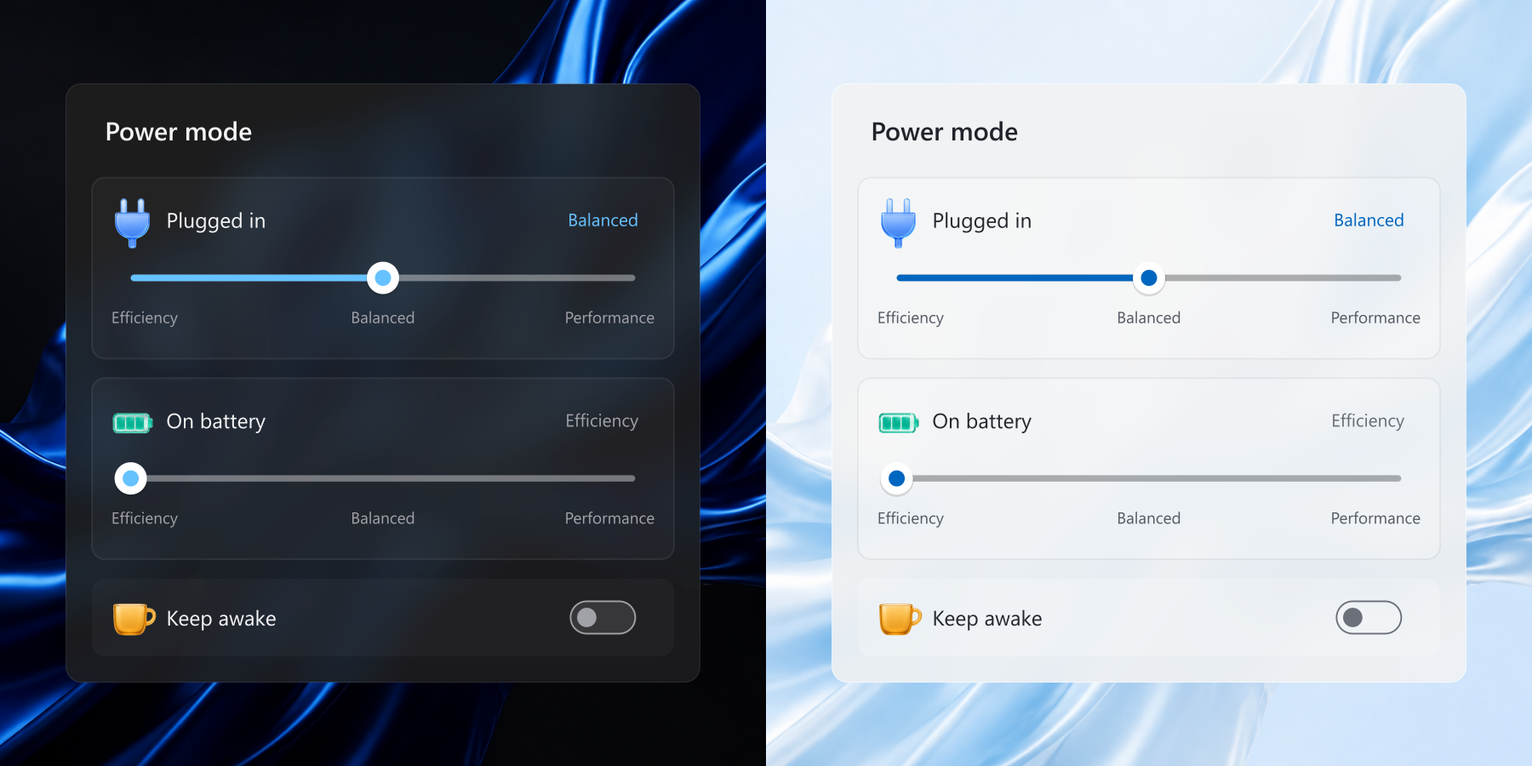
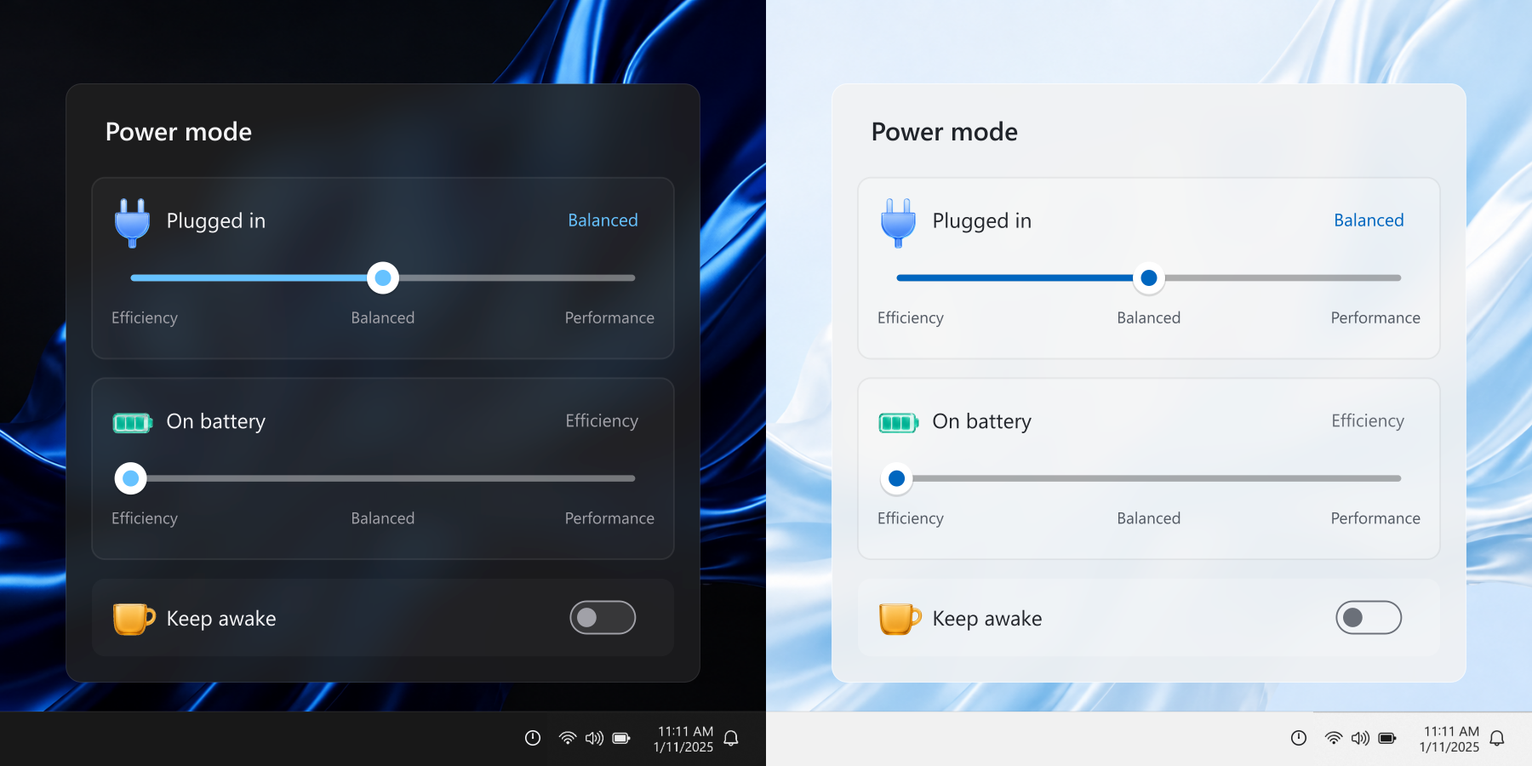
Release Windows 11 Power Slider v1.0.1

diff --git a/site/index.html b/site/index.html
@@ -3,12 +3,12 @@
   <head>
     <meta charset="utf-8" />
     <meta name="viewport" content="width=device-width, initial-scale=1" />
-    <meta name="description" content="Windows 11 Power Slider is a lightweight native C++ tray app for switching power modes with a modern Acrylic interface." />
+    <meta name="description" content="Windows 11 Power Slider puts the current power mode in the taskbar tray and opens a compact Acrylic switcher with one click." />
     <link rel="canonical" href="https://kiteretsu903.github.io/windows-11-power-slider/" />
     <link rel="icon" href="assets/icon.png" />
     <meta name="theme-color" content="#07101f" />
     <meta property="og:title" content="Windows 11 Power Slider" />
-    <meta property="og:description" content="Modern power mode controls without the WinUI 3 runtime." />
+    <meta property="og:description" content="Your current power mode, always visible in the taskbar tray." />
     <meta property="og:image" content="https://kiteretsu903.github.io/windows-11-power-slider/assets/preview.png" />
     <meta property="og:url" content="https://kiteretsu903.github.io/windows-11-power-slider/" />
     <meta property="og:type" content="website" />
@@ -30,6 +30,8 @@
       .brand img { width: 34px; height: 34px; border-radius: 10px; }
       nav { display: flex; gap: 28px; color: var(--muted); font-size: 14px; font-weight: 600; }
       nav a:hover, footer a:hover { color: var(--blue); }
+      .header-actions { display: flex; align-items: center; gap: 10px; }
+      .language { min-width: 54px; color: var(--muted); background: transparent; cursor: pointer; }
       .button { display: inline-flex; min-height: 44px; padding: 0 18px; align-items: center; justify-content: center; gap: 9px; border: 1px solid rgba(255,255,255,.27); border-radius: 999px; font-size: 14px; font-weight: 650; transition: transform .18s ease, background .18s ease, border-color .18s ease; }
       .button:hover { transform: translateY(-1px); border-color: rgba(255,255,255,.55); background: rgba(255,255,255,.08); }
       .button-blue { color: #041322; border-color: #83cbff; background: linear-gradient(135deg,#83cbff,#46aaf3); box-shadow: 0 10px 30px rgba(37,146,231,.23); }
@@ -57,33 +59,12 @@
       .feature-number { color: var(--blue); font-size: 13px; font-weight: 720; letter-spacing: .1em; }
       .feature-row h3 { margin: 0; font-size: 25px; line-height: 1.08; letter-spacing: -.04em; }
       .feature-row p { max-width: 410px; margin: 0; color: var(--muted); font-size: 15px; line-height: 1.55; }
-      .native { padding: 0 0 104px; }
-      .native-grid { display: grid; grid-template-columns: 1fr 1fr; gap: 20px; }
-      .native-copy,.facts { min-height: 470px; padding: 44px; border-radius: var(--radius); }
-      .native-copy { display: flex; flex-direction: column; justify-content: space-between; color: #07101f; background: linear-gradient(145deg,#dff2ff,#79c7ff); }
-      .native-copy .section-label { color: #075f9e; }
-      .native-copy h2 { font-size: clamp(43px,4.8vw,62px); }
-      .native-copy p:not(.section-label) { max-width: 410px; margin: 20px 0 0; color: #1b4d70; font-size: 17px; line-height: 1.55; }
-      .quiet { padding-top: 24px; border-top: 1px solid rgba(7,16,31,.23); color: #17476a; font-size: 13px; line-height: 1.45; }
-      .quiet strong { display: block; margin-bottom: 4px; color: #07101f; font-size: 12px; letter-spacing: .08em; }
-      .facts { background: rgba(255,255,255,.055); border: 1px solid var(--line); backdrop-filter: blur(18px); }
-      .facts ul { margin: 25px 0 0; padding: 0; list-style: none; }
-      .facts li { display: flex; justify-content: space-between; gap: 20px; padding: 20px 0; border-bottom: 1px solid var(--line); color: var(--muted); font-size: 15px; }
-      .facts li strong { color: var(--ink); font-weight: 650; }
-      .callout { padding: 40px 0 68px; }
-      .callout-inner { display: grid; grid-template-columns: 1fr auto; gap: 38px; align-items: center; padding: 55px 60px; border-radius: var(--radius); background: linear-gradient(125deg,#0878d1,#48b1fa); color: white; }
-      .callout-inner .section-label { color: #d9f0ff; }
-      .callout-inner h2 { margin-top: 11px; font-size: clamp(40px,5vw,61px); }
-      .callout-inner .button { margin-top: 25px; color: #07558e; border-color: white; background: white; }
-      .callout-inner img { width: 128px; height: 128px; border-radius: 28px; filter: drop-shadow(0 20px 25px rgba(2,45,83,.28)); }
       footer { display: flex; justify-content: space-between; gap: 24px; padding: 26px 0 39px; border-top: 1px solid var(--line); color: #8493a8; font-size: 13px; }
       @media (max-width: 780px) {
         nav { display: none; } .site-header { height: 72px; }
-        .hero { padding: 58px 0 76px; } .hero-grid,.section-head,.native-grid { grid-template-columns: 1fr; gap: 30px; } .hero-copy { padding-top: 0; }
+        .hero { padding: 58px 0 76px; } .hero-grid,.section-head { grid-template-columns: 1fr; gap: 30px; } .hero-copy { padding-top: 0; }
         .product-frame { margin-top: 43px; border-radius: 20px; }
-        .features { padding: 78px 0; } .native { padding-bottom: 78px; }
-        .native-copy,.facts { min-height: auto; padding: 35px; }
-        .callout-inner { grid-template-columns: 1fr; padding: 42px 35px; } .callout-inner img { width: 92px; height: 92px; }
+        .features { padding: 78px 0; }
       }
       @media (max-width: 520px) {
         .shell { width: min(100% - 32px,1180px); } .brand span { max-width: 190px; }
@@ -97,29 +78,48 @@
   <body>
     <header class="shell site-header">
       <a class="brand" href="#top" aria-label="Windows 11 Power Slider home"><img src="assets/icon.png" alt="" /><span>Windows 11 Power Slider</span></a>
-      <nav aria-label="Primary navigation"><a href="#features">Features</a><a href="#download">Download</a></nav>
-      <a class="button" href="https://github.com/kiteretsu903/windows-11-power-slider">GitHub <span aria-hidden="true">↗</span></a>
+      <nav aria-label="Primary navigation"><a href="#features" data-i18n="featuresNav">Features</a><a href="https://github.com/kiteretsu903/windows-11-power-slider/releases/latest" data-i18n="downloadNav">Download</a></nav>
+      <div class="header-actions"><button class="button language" id="language-toggle" type="button" aria-label="切换到中文">中文</button><a class="button" href="https://github.com/kiteretsu903/windows-11-power-slider">GitHub <span aria-hidden="true">↗</span></a></div>
     </header>
     <main id="top">
       <section class="shell hero">
         <div class="hero-grid">
-          <div><p class="kicker">Power mode controls for Windows 11</p><h1>Power modes,<br />back where they<br /><em>belong.</em></h1></div>
-          <div class="hero-copy"><p>Switch plugged-in and battery power modes from one compact Acrylic flyout.</p><div class="hero-actions"><a class="button button-blue" href="https://github.com/kiteretsu903/windows-11-power-slider/releases/latest">Download v1.0 <span aria-hidden="true">↓</span></a><a class="button" href="https://github.com/kiteretsu903/windows-11-power-slider">View source <span aria-hidden="true">↗</span></a></div><p class="subline">Windows 11 x64 · Native C++ / Win32 · Free and open source</p></div>
+          <div><h1 data-i18n-html="headline">Power modes,<br />back where they<br /><em>belong.</em></h1></div>
+          <div class="hero-copy"><p data-i18n="intro">Its taskbar tray icon always shows the current mode. Click it to switch plugged-in and battery profiles.</p><div class="hero-actions"><a class="button button-blue" href="https://github.com/kiteretsu903/windows-11-power-slider/releases/latest"><span data-i18n="download">Download v1.0.1</span> <span aria-hidden="true">↓</span></a><a class="button" href="https://github.com/kiteretsu903/windows-11-power-slider"><span data-i18n="source">View source</span> <span aria-hidden="true">↗</span></a></div><p class="subline" data-i18n="subline">Windows 11 x64 · Free and open source</p></div>
         </div>
         <figure class="product-frame"><img src="assets/preview.png" alt="Windows 11 Power Slider shown in dark and light modes" /></figure>
       </section>
 
       <section class="shell features" id="features">
-        <div class="section-head"><div><p class="section-label">One click from the tray</p><h2>The old slider idea,<br /><em>rebuilt for today.</em></h2></div><p class="section-lede">Separate controls for battery and plugged-in use.</p></div>
+        <div class="section-head"><div><h2 data-i18n-html="featureHeadline">Small, direct,<br /><em>familiar.</em></h2></div></div>
         <div class="feature-list">
-          <article class="feature-row"><span class="feature-number">01</span><h3>Separate AC and battery modes.</h3><p>Efficiency, Balanced or Performance for each power source.</p></article>
-          <article class="feature-row"><span class="feature-number">02</span><h3>Modern Windows appearance.</h3><p>Acrylic blur, light and dark themes, native motion and Fluent tray icons.</p></article>
-          <article class="feature-row"><span class="feature-number">03</span><h3>Keep Awake.</h3><p>Stay awake when needed, with automatic low-battery protection.</p></article>
+          <article class="feature-row"><span class="feature-number">01</span><h3 data-i18n="modeTitle">AC and battery modes.</h3><p data-i18n="modeBody">Efficiency, Balanced or Performance for each power source.</p></article>
+          <article class="feature-row"><span class="feature-number">02</span><h3 data-i18n="lookTitle">Modern Windows appearance.</h3><p data-i18n="lookBody">Acrylic blur, light and dark themes, smooth motion and Fluent tray icons.</p></article>
+          <article class="feature-row"><span class="feature-number">03</span><h3 data-i18n="awakeTitle">Keep Awake.</h3><p data-i18n="awakeBody">Stay awake when needed, with automatic low-battery protection.</p></article>
         </div>
       </section>
 
-      <section class="shell callout" id="download"><div class="callout-inner"><div><p class="section-label">Windows 11 Power Slider v1.0</p><h2>Modern outside.<br />Native underneath.</h2><a class="button" href="https://github.com/kiteretsu903/windows-11-power-slider/releases/latest">Download for Windows <span aria-hidden="true">↓</span></a></div><img src="assets/icon.png" alt="Windows 11 Power Slider icon" /></div></section>
     </main>
-    <footer class="shell"><span>© 2026 Windows 11 Power Slider · MIT License</span><span><a href="privacy.html">Privacy</a> · <a href="https://github.com/kiteretsu903/windows-11-power-slider">Source code on GitHub <span aria-hidden="true">↗</span></a></span></footer>
+    <footer class="shell"><span>© 2026 Windows 11 Power Slider · MIT License</span><span><a href="privacy.html" data-i18n="privacy">Privacy</a> · <a href="https://github.com/kiteretsu903/windows-11-power-slider"><span data-i18n="sourceFooter">Source code on GitHub</span> <span aria-hidden="true">↗</span></a></span></footer>
+    <script>
+      (() => {
+        const copy = {
+          en: { featuresNav:'Features', downloadNav:'Download', headline:'Power modes,<br />back where they<br /><em>belong.</em>', intro:'Its taskbar tray icon always shows the current mode. Click it to switch plugged-in and battery profiles.', download:'Download v1.0.1', source:'View source', subline:'Windows 11 x64 · Free and open source', featureHeadline:'Small, direct,<br /><em>familiar.</em>', modeTitle:'AC and battery modes.', modeBody:'Efficiency, Balanced or Performance for each power source.', lookTitle:'Modern Windows appearance.', lookBody:'Acrylic blur, light and dark themes, smooth motion and Fluent tray icons.', awakeTitle:'Keep Awake.', awakeBody:'Stay awake when needed, with automatic low-battery protection.', privacy:'Privacy', sourceFooter:'Source code on GitHub' },
+          zh: { featuresNav:'功能', downloadNav:'下载', headline:'电源模式，<br />回到该在的<br /><em>位置。</em>', intro:'任务栏托盘图标始终显示当前模式。点击即可切换插电与电池配置。', download:'下载 v1.0.1', source:'查看源码', subline:'Windows 11 x64 · 免费开源', featureHeadline:'小巧、直接、<br /><em>顺手。</em>', modeTitle:'插电与电池模式。', modeBody:'每种供电状态均可选择最佳能效、平衡或最佳性能。', lookTitle:'现代 Windows 外观。', lookBody:'Acrylic 模糊、浅色与深色主题、流畅动画及 Fluent 托盘图标。', awakeTitle:'保持唤醒。', awakeBody:'需要时保持系统唤醒，并提供自动低电量保护。', privacy:'隐私', sourceFooter:'GitHub 源代码' }
+        };
+        const toggle = document.getElementById('language-toggle');
+        let language = localStorage.getItem('power-slider-language') || ((navigator.languages || [navigator.language]).some(value => /^zh(?:-|$)/i.test(value || '')) ? 'zh' : 'en');
+        const apply = value => {
+          language = value === 'zh' ? 'zh' : 'en';
+          document.documentElement.lang = language === 'zh' ? 'zh-CN' : 'en';
+          document.querySelectorAll('[data-i18n]').forEach(node => node.textContent = copy[language][node.dataset.i18n]);
+          document.querySelectorAll('[data-i18n-html]').forEach(node => node.innerHTML = copy[language][node.dataset.i18nHtml]);
+          toggle.textContent = language === 'zh' ? 'EN' : '中文';
+          toggle.setAttribute('aria-label', language === 'zh' ? 'Switch to English' : '切换到中文');
+        };
+        toggle.addEventListener('click', () => { const next = language === 'zh' ? 'en' : 'zh'; localStorage.setItem('power-slider-language', next); apply(next); });
+        apply(language);
+      })();
+    </script>
   </body>
 </html>

diff --git a/site/privacy.html b/site/privacy.html
@@ -11,19 +11,32 @@
     <style>
       :root { --ink:#f4f8ff; --muted:#a8b4c6; --blue:#55b7ff; --night:#07101f; --line:rgba(255,255,255,.13); }
       * { box-sizing:border-box; } body { margin:0; color:var(--ink); background:radial-gradient(circle at 78% 0,rgba(32,132,255,.25),transparent 29%),var(--night); font-family:"Segoe UI Variable","Segoe UI",Arial,sans-serif; } a { color:inherit; text-decoration:none; } .shell { width:min(820px,calc(100% - 48px)); margin:0 auto; }
-      header { height:82px; display:flex; align-items:center; justify-content:space-between; border-bottom:1px solid var(--line); } .brand { display:inline-flex; gap:11px; align-items:center; font-weight:700; } .brand img { width:34px; height:34px; border-radius:10px; } nav { display:flex; gap:24px; color:var(--muted); font-size:14px; } nav a:hover,main a,footer a:hover { color:var(--blue); }
+      header { height:82px; display:flex; align-items:center; justify-content:space-between; border-bottom:1px solid var(--line); } .brand { display:inline-flex; gap:11px; align-items:center; font-weight:700; } .brand img { width:34px; height:34px; border-radius:10px; } nav { display:flex; align-items:center; gap:16px; color:var(--muted); font-size:14px; } nav a:hover,main a,footer a:hover { color:var(--blue); } button { padding:8px 13px; color:var(--muted); border:1px solid var(--line); border-radius:999px; background:transparent; cursor:pointer; }
       main { padding:90px 0 100px; } .eyebrow { margin:0; color:var(--blue); font-size:11px; font-weight:760; letter-spacing:.14em; text-transform:uppercase; } h1 { margin:15px 0 18px; font-size:clamp(52px,8vw,82px); line-height:.94; letter-spacing:-.07em; } .updated { margin:0 0 58px; color:var(--muted); font-size:14px; } section { padding:29px 0; border-top:1px solid var(--line); } h2 { margin:0 0 13px; font-size:23px; letter-spacing:-.035em; } p,li { color:var(--muted); font-size:16px; line-height:1.62; } p { margin:0; } ul { margin:0; padding-left:20px; } footer { display:flex; justify-content:space-between; padding:26px 0 39px; border-top:1px solid var(--line); color:#8493a8; font-size:13px; }
       @media(max-width:600px){.shell{width:min(100% - 32px,820px)} header nav{display:none} main{padding-top:62px} footer{flex-direction:column;gap:13px}}
     </style>
   </head>
   <body>
-    <header class="shell"><a class="brand" href="index.html"><img src="assets/icon.png" alt="" /><span>Windows 11 Power Slider</span></a><nav><a href="index.html">Home</a><a href="https://github.com/kiteretsu903/windows-11-power-slider">GitHub</a></nav></header>
-    <main class="shell"><p class="eyebrow">Privacy</p><h1>Nothing leaves your PC.</h1><p class="updated">Effective September 4, 2026</p>
-      <section><h2>Summary</h2><p>Windows 11 Power Slider does not collect, transmit, sell or share personal data. It has no accounts, analytics, advertising or telemetry.</p></section>
-      <section><h2>The app</h2><ul><li>Power modes and preferences are handled locally through Windows APIs and current-user settings.</li><li>The app has no network client, updater, cloud service, background service or driver.</li><li>Keep Awake uses a process-scoped Windows request and is released when the app exits.</li></ul></section>
-      <section><h2>The website</h2><p>This website uses no app-provided analytics, advertising trackers, forms or cookies. It is hosted by GitHub Pages, so GitHub may process technical request information under its <a href="https://docs.github.com/en/site-policy/privacy-policies/github-general-privacy-statement">Privacy Statement</a>.</p></section>
-      <section><h2>Open source</h2><p>The complete source code is available on <a href="https://github.com/kiteretsu903/windows-11-power-slider">GitHub</a> for inspection.</p></section>
+    <header class="shell"><a class="brand" href="index.html"><img src="assets/icon.png" alt="" /><span>Windows 11 Power Slider</span></a><nav><a href="index.html" data-i18n="home">Home</a><button id="language-toggle" type="button" aria-label="切换到中文">中文</button></nav></header>
+    <main class="shell"><p class="eyebrow" data-i18n="privacy">Privacy</p><h1 data-i18n="headline">Nothing leaves your PC.</h1><p class="updated" data-i18n="effective">Effective September 4, 2026</p>
+      <section><h2 data-i18n="summaryTitle">Summary</h2><p data-i18n="summaryBody">Windows 11 Power Slider does not collect, transmit, sell or share personal data. It has no accounts, analytics, advertising or telemetry.</p></section>
+      <section><h2 data-i18n="appTitle">The app</h2><ul><li data-i18n="appOne">Power modes and preferences are handled locally through Windows APIs and current-user settings.</li><li data-i18n="appTwo">The app has no network client, updater, cloud service, background service or driver.</li><li data-i18n="appThree">Keep Awake uses a process-scoped Windows request and is released when the app exits.</li></ul></section>
+      <section><h2 data-i18n="siteTitle">The website</h2><p><span data-i18n="siteBody">This website uses no app-provided analytics, advertising trackers, forms or cookies. It is hosted by GitHub Pages, so GitHub may process technical request information under its</span> <a href="https://docs.github.com/en/site-policy/privacy-policies/github-general-privacy-statement" data-i18n="statement">Privacy Statement</a>.</p></section>
+      <section><h2 data-i18n="sourceTitle">Open source</h2><p><span data-i18n="sourceBody">The complete source code is available on</span> <a href="https://github.com/kiteretsu903/windows-11-power-slider">GitHub</a><span data-i18n="sourceTail"> for inspection.</span></p></section>
     </main>
-    <footer class="shell"><span>© 2026 Windows 11 Power Slider · MIT License</span><span><a href="index.html">Home</a> · <a href="https://github.com/kiteretsu903/windows-11-power-slider">Source</a></span></footer>
+    <footer class="shell"><span>© 2026 Windows 11 Power Slider · MIT License</span><span><a href="index.html" data-i18n="home">Home</a> · <a href="https://github.com/kiteretsu903/windows-11-power-slider" data-i18n="sourceLink">Source</a></span></footer>
+    <script>
+      (() => {
+        const copy = {
+          en: { home:'Home', privacy:'Privacy', headline:'Nothing leaves your PC.', effective:'Effective September 4, 2026', summaryTitle:'Summary', summaryBody:'Windows 11 Power Slider does not collect, transmit, sell or share personal data. It has no accounts, analytics, advertising or telemetry.', appTitle:'The app', appOne:'Power modes and preferences are handled locally through Windows APIs and current-user settings.', appTwo:'The app has no network client, updater, cloud service, background service or driver.', appThree:'Keep Awake uses a process-scoped Windows request and is released when the app exits.', siteTitle:'The website', siteBody:'This website uses no app-provided analytics, advertising trackers, forms or cookies. It is hosted by GitHub Pages, so GitHub may process technical request information under its', statement:'Privacy Statement', sourceTitle:'Open source', sourceBody:'The complete source code is available on', sourceTail:' for inspection.', sourceLink:'Source' },
+          zh: { home:'首页', privacy:'隐私', headline:'任何数据都不会离开电脑。', effective:'生效日期：2026 年 9 月 4 日', summaryTitle:'概要', summaryBody:'Windows 11 Power Slider 不收集、传输、出售或共享个人数据，也不包含账户、分析、广告或遥测。', appTitle:'应用程序', appOne:'电源模式和偏好设置仅通过 Windows API 与当前用户设置在本地处理。', appTwo:'应用不包含网络客户端、更新器、云服务、后台服务或驱动。', appThree:'保持唤醒使用进程级 Windows 请求，应用退出时即释放。', siteTitle:'网站', siteBody:'本网站不使用应用方提供的分析、广告追踪器、表单或 Cookie。网站托管于 GitHub Pages，因此 GitHub 可能依据其', statement:'隐私声明', sourceTitle:'开源', sourceBody:'完整源代码可在', sourceTail:'查看。', sourceLink:'源代码' }
+        };
+        const toggle = document.getElementById('language-toggle');
+        let language = localStorage.getItem('power-slider-language') || ((navigator.languages || [navigator.language]).some(value => /^zh(?:-|$)/i.test(value || '')) ? 'zh' : 'en');
+        const apply = value => { language = value === 'zh' ? 'zh' : 'en'; document.documentElement.lang = language === 'zh' ? 'zh-CN' : 'en'; document.querySelectorAll('[data-i18n]').forEach(node => node.textContent = copy[language][node.dataset.i18n]); toggle.textContent = language === 'zh' ? 'EN' : '中文'; toggle.setAttribute('aria-label', language === 'zh' ? 'Switch to English' : '切换到中文'); };
+        toggle.addEventListener('click', () => { const next = language === 'zh' ? 'en' : 'zh'; localStorage.setItem('power-slider-language', next); apply(next); });
+        apply(language);
+      })();
+    </script>
   </body>
 </html>

diff --git a/src/main.cpp b/src/main.cpp
@@ -100,7 +100,7 @@ bool use_light_theme() {
     DWORD bytes = sizeof(value);
     RegGetValueW(HKEY_CURRENT_USER,
                  L"Software\\Microsoft\\Windows\\CurrentVersion\\Themes\\Personalize",
-                 L"AppsUseLightTheme", RRF_RT_REG_DWORD, nullptr, &value, &bytes);
+                 L"SystemUsesLightTheme", RRF_RT_REG_DWORD, nullptr, &value, &bytes);
     return value != 0;
 }
 

diff --git a/README.md b/README.md
@@ -6,14 +6,14 @@ A lightweight **native C++ / Win32** power-mode tray app with a modern Acrylic i
 
 [Website](https://kiteretsu903.github.io/windows-11-power-slider/) · [Download](https://github.com/kiteretsu903/windows-11-power-slider/releases/latest)
 
-![Windows 11 Power Slider](docs/images/preview.png)
+![Windows 11 Power Slider with its taskbar tray icon](docs/images/preview.png)
 
 Inspired by [PowerModeSlider](https://github.com/giulioungaretti/PowerModeSlider), independently rebuilt with separate AC/battery controls and a conventional installer.
 
 ## Features
 
 - **Native and lightweight.** No .NET, WinUI 3, Qt or WebView runtime. Graphics resources are released when the panel closes.
-- **Modern appearance.** Acrylic blur, automatic light/dark themes, smooth flyout motion and DPI-aware tray icons showing the current mode.
+- **Modern appearance.** Acrylic blur that follows the Windows light/dark mode, smooth flyout motion and DPI-aware tray icons showing the current mode.
 - **Separate power controls.** Best power efficiency, Balanced and Best performance, with separate plugged-in and battery sliders.
 - **Keep Awake with battery protection.** Keep the system and screen awake. Low battery or a sleep transition turns it off, without automatically re-enabling it.
 - **Simple setup.** Portable EXE or per-user installer, automatic English/Chinese selection and optional startup with Windows. No certificate imports.

diff --git a/README.zh-CN.md b/README.zh-CN.md
@@ -6,14 +6,14 @@
 
 轻量的**原生 C++ / Win32** 电源模式托盘工具，提供现代 Acrylic 界面与低常驻内存占用。
 
-![Windows 11 Power Slider](docs/images/preview.png)
+![Windows 11 Power Slider 及其任务栏托盘图标](docs/images/preview.png)
 
 灵感来自 [PowerModeSlider](https://github.com/giulioungaretti/PowerModeSlider)，以独立原生实现带来插电/电池独立控制和普通安装器。
 
 ## 功能
 
 - **原生轻量。** 无 .NET、WinUI 3、Qt 或 WebView 运行时依赖，关闭面板即释放图形资源。
-- **现代外观。** Acrylic 背景模糊、自动浅色/深色主题、平滑弹出动画，以及适配 DPI、反映当前档位的托盘图标。
+- **现代外观。** Acrylic 背景模糊并跟随 Windows 浅色/深色模式，配有平滑弹出动画，以及适配 DPI、反映当前档位的托盘图标。
 - **独立电源控制。** 插电与电池分别设置最佳能效、平衡、最佳性能三档。
 - **保持唤醒与电池保护。** 保持系统和屏幕唤醒；电量过低或系统睡眠时自动关闭，不会自动重新开启。
 - **简洁安装与设置。** 便携 EXE 或当前用户安装器，自动识别中英文，可选开机启动，无需导入证书。

diff --git a/docs/releases/v1.0.1.md b/docs/releases/v1.0.1.md
@@ -1,0 +1,13 @@
+# Windows 11 Power Slider v1.0.1
+
+- Follow the Windows light or dark mode instead of the app theme setting.
+- Add an automatic English and Chinese website with a manual language switch.
+- Simplify the website around the tray experience.
+- Update the README preview with a clean Windows 11 system tray and correctly sized mode icon.
+
+## 中文
+
+- 深浅色改为跟随 Windows 模式，不再跟随应用模式。
+- 网站根据浏览器语言自动切换中英文，并保留手动切换。
+- 精简网站内容，突出任务栏托盘体验。
+- 更新 README 预览，使用简洁的 Windows 11 系统托盘和正确尺寸的模式图标。
